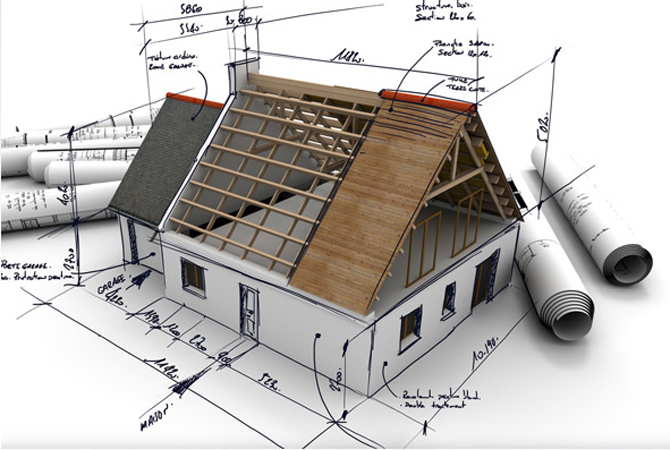
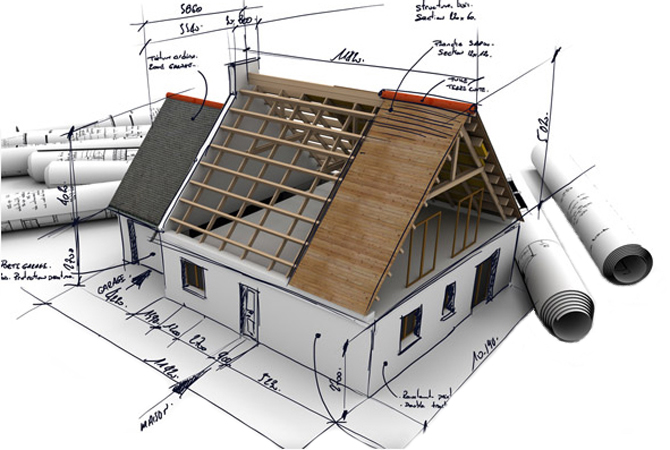
V.12.0.0 changes

diff --git a/public/example/views/partials/contacto.client.view.html b/public/example/views/partials/contacto.client.view.html
@@ -1,8 +1,9 @@
 <section> 
-    <div>
+    <div>        
         <div class="container" id="contact" >
             <div style="padding:70px 0px 150px 0;"" >              
                 <div  class="panel-body">
+                    <p>Si desea más información sobre nuestro servicios, contáctenos y con gusto lo atenderemos</p><br>
                     <form ng-submit="submit(contactform)"  name="contactform" class="form-horizontal" >
                         <div class="form-group" ng-class="{ 'has-error': contactform.inputName.$invalid && submitted }">
                             <label for="inputName" class="col-lg-2 control-label">Nombre</label>

diff --git a/public/example/views/partials/home.client.view.html b/public/example/views/partials/home.client.view.html
@@ -12,7 +12,7 @@
     </div>
     
     <div class="container containerHome">
-        <div class=" imagenCasa containerLeft"><img class="img-responsive" src="images/casa.jpg" alt="casa"></div>
+        <div class=" imagenCasa containerLeft"><img class="img-responsive" src="images/casa.png" alt="casa"></div>
         <div class=" texto containerRight textBox">
             <h2>¿Qué es un Avalúo?</h2>
             <p>

diff --git a/public/css/main.css b/public/css/main.css
@@ -57,6 +57,11 @@ outline: medium none !important;
 border-radius: 5px;
 }
 
+.isActive{
+  background-color: black;
+  color:red;
+}
+
 /*************************
 *******Home Page******
 **************************/
@@ -69,7 +74,7 @@ border-radius: 5px;
 .img-carousel-a{
     margin:auto; 
     width: 100%; 	
-    max-height:250px;
+    max-height:350px;
 }
 
 .textBox{
